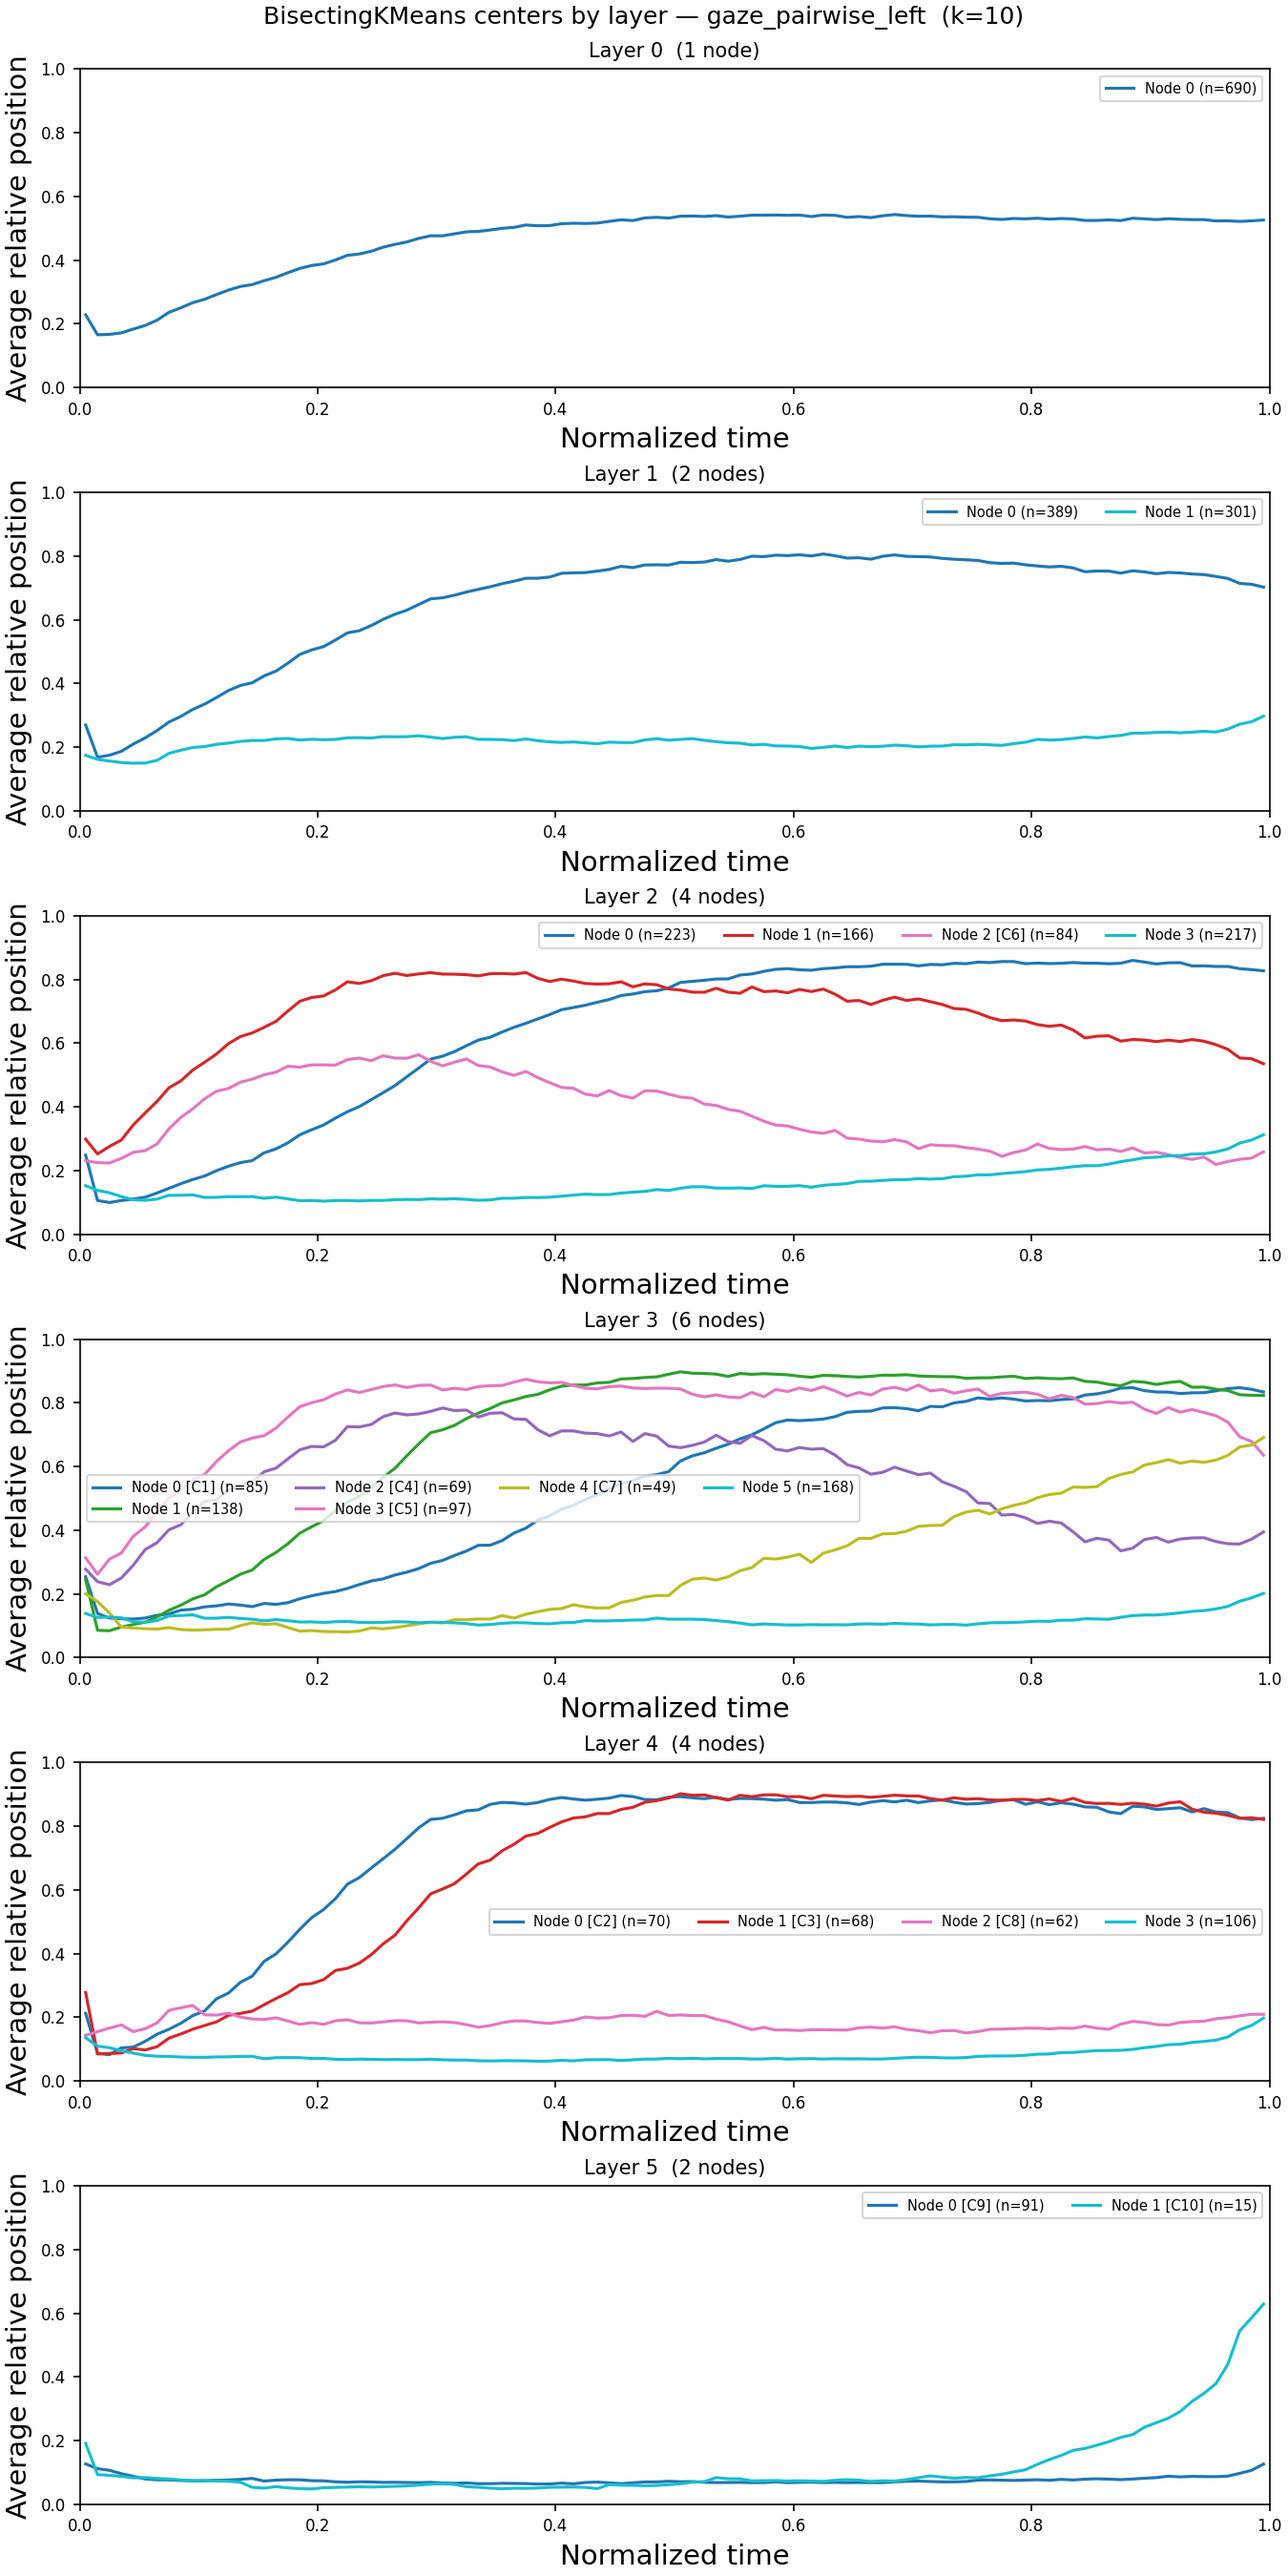
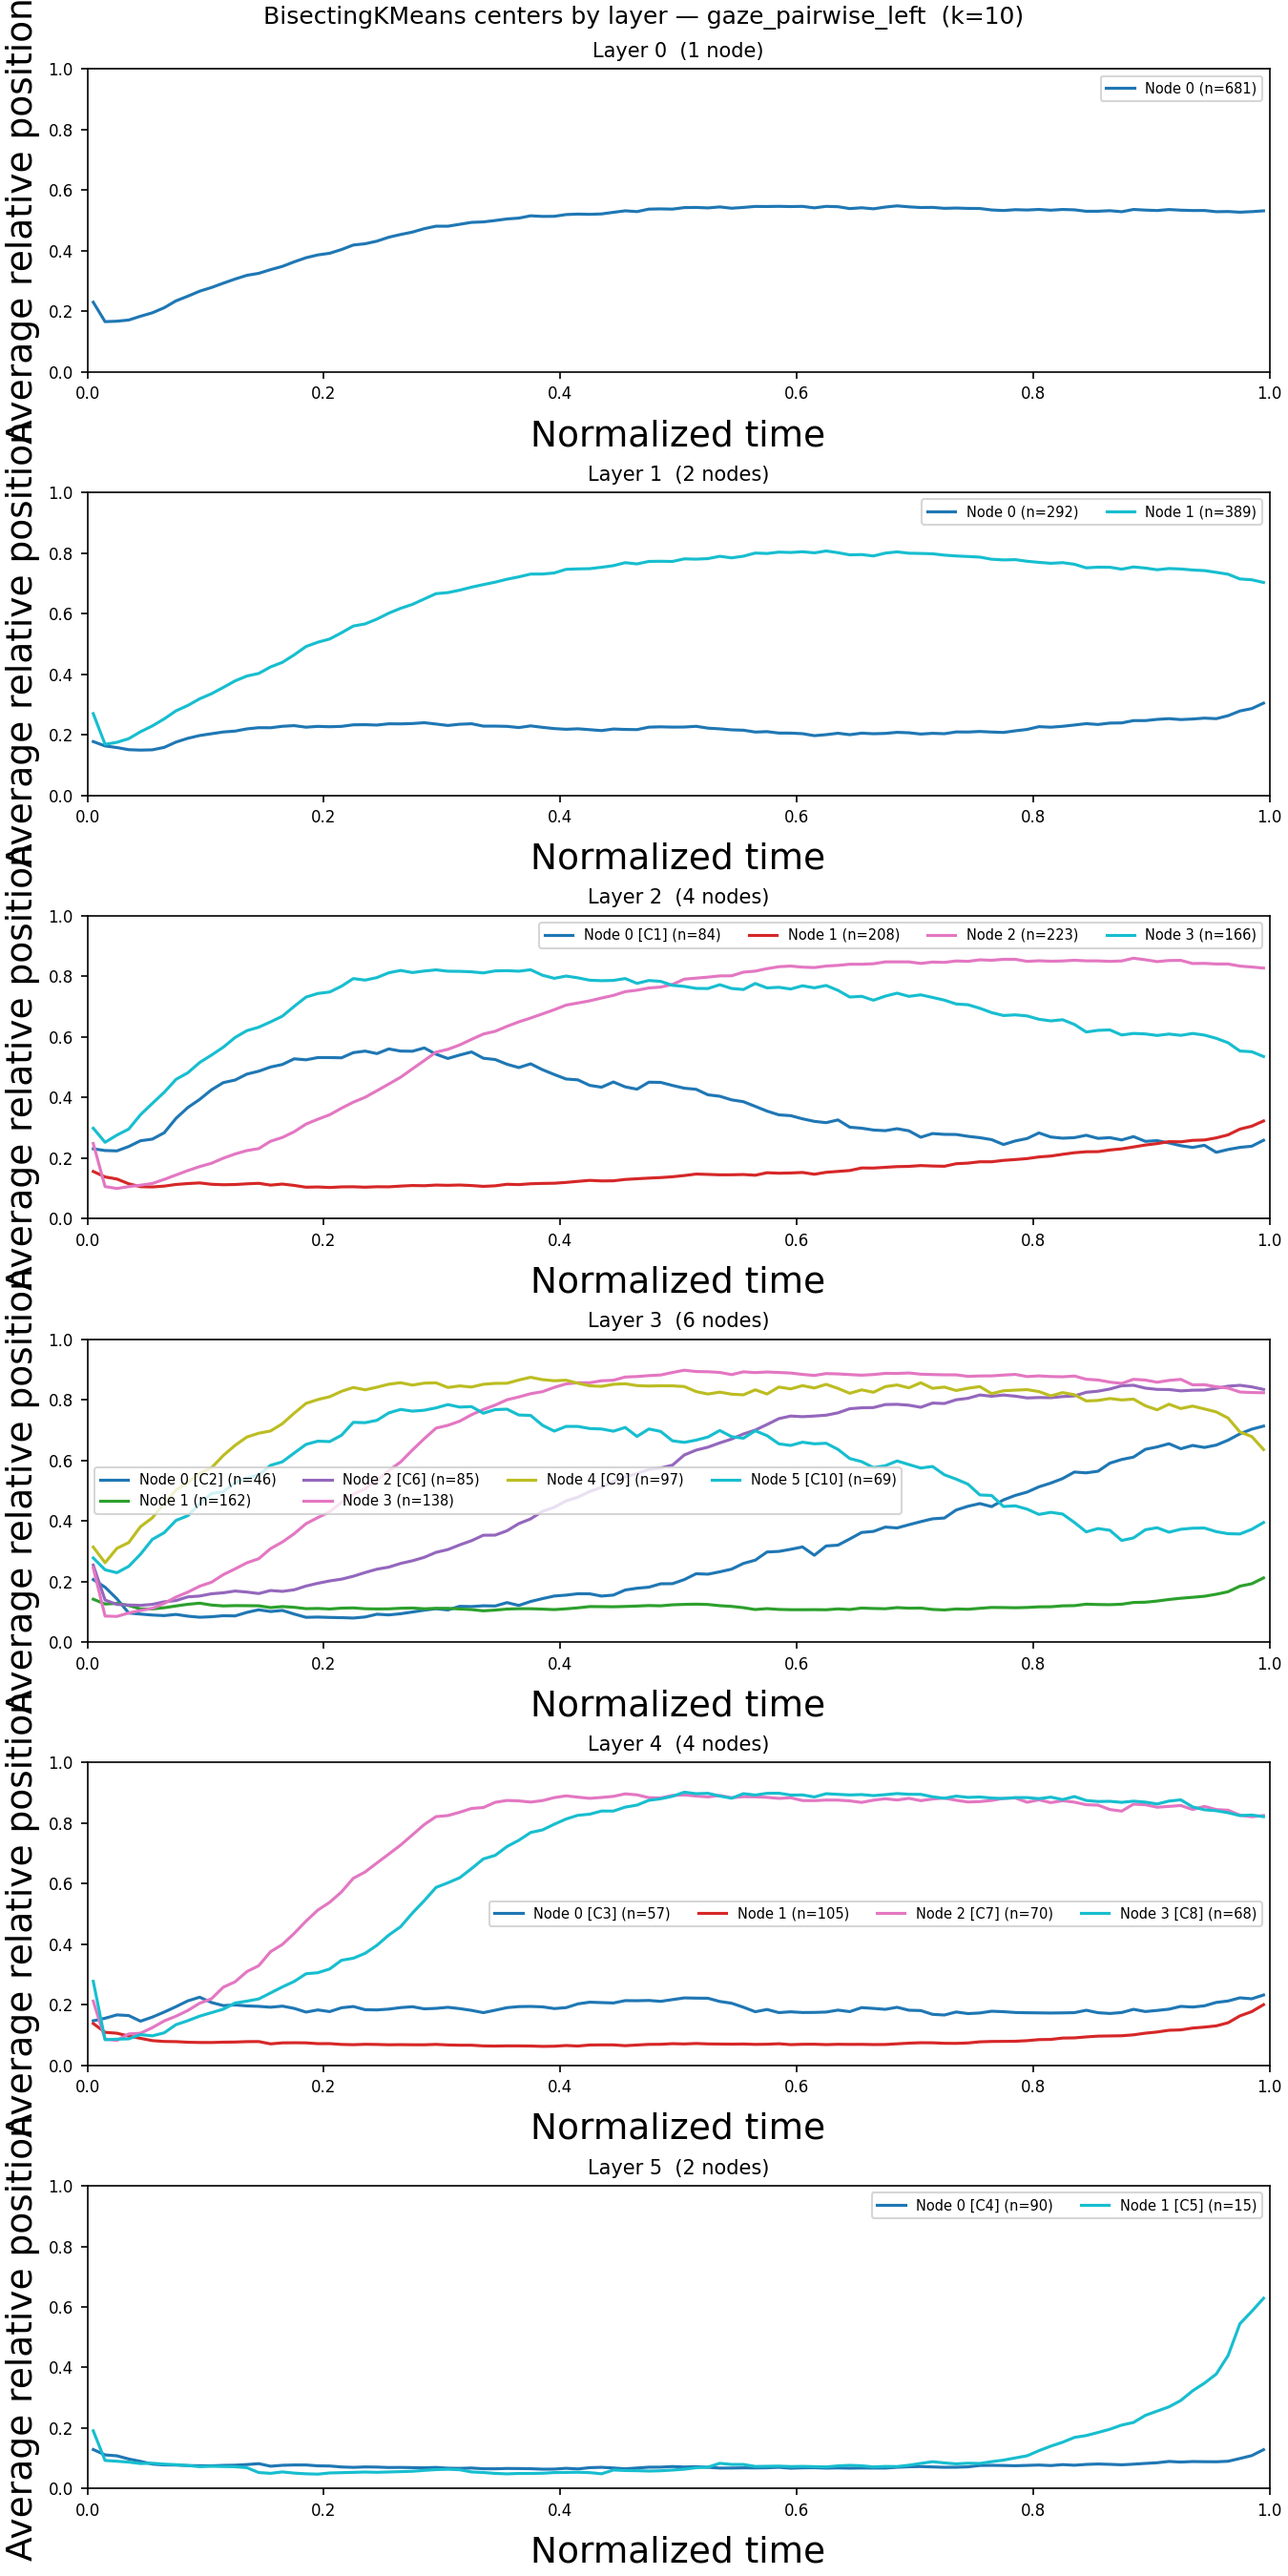
changes in plot

diff --git a/src/vis/gaze_mouse_kmeans.py b/src/vis/gaze_mouse_kmeans.py
@@ -35,7 +35,11 @@ _qc = "filtered" if EXCLUDE_BAD_WORKERS else "all"
 N_GROUPS = 2        # number of shape-similarity groups for centroid/sample plots
 MIN_CLUSTER_SAMPLES = 10  # clusters smaller than this are excluded from group plots
 # Manual overrides: cluster 1-indexed label -> group 0-indexed.  e.g. {4: 1} moves C4 to Group 2.
-CENTROID_GROUP_OVERRIDES: dict = {4: 1}
+# Fully specified: C6,C7,C8,C9 -> Group 1 (0); all others -> Group 2 (1).
+CENTROID_GROUP_OVERRIDES: dict = {
+    1: 1, 2: 1, 3: 1, 4: 1, 5: 1, 10: 1,
+    6: 0, 7: 0, 8: 0, 9: 0,
+}
 # Manual overrides for sample plot: sample 1-indexed label -> group 0-indexed.
 SAMPLE_GROUP_OVERRIDES: dict = {3: 0}
 
@@ -101,14 +105,14 @@ CLUSTER_COLORS = [_cmap(i / max(N_CLUSTERS - 1, 1)) for i in range(N_CLUSTERS)]
 
 def _ax_labels(ax):
     if DATA_TYPE == "time_interp":
-        ax.set_xlabel("Normalized time", fontsize=14)
-        ax.set_ylabel("Average relative position", fontsize=14)
+        ax.set_xlabel("Normalized time", fontsize=18, labelpad=8)
+        ax.set_ylabel("Average relative position", fontsize=18)
         ax.set_ylim(0, 1)
     else:
-        ax.set_xlabel("Relative position", fontsize=14)
-        ax.set_ylabel("Average probability", fontsize=14)
+        ax.set_xlabel("Relative position", fontsize=18, labelpad=8)
+        ax.set_ylabel("Average probability", fontsize=18)
         ax.set_ylim(bottom=0)   # auto-scale top; histogram probs are ~0–0.05
-    ax.tick_params(axis='both', labelsize=12)
+    ax.tick_params(axis='both', labelsize=16)
     ax.set_xlim(0, 1)
 
 
@@ -141,8 +145,8 @@ for g, ax in enumerate(axes1):
         ax.plot(BIN_CENTERS, centroids[idx], color=CLUSTER_COLORS[idx], lw=1.5,
                 label=f"C{idx + 1} (n={cluster_counts[idx]})")
     _ax_labels(ax)
-    ax.legend(fontsize=13)
-    ax.set_title(f"Group {g + 1}  ({len(member_idxs)} clusters)", fontsize=18)
+    ax.legend(fontsize=16)
+    ax.set_title(f"Group {g + 1}  ({len(member_idxs)} clusters)", fontsize=20)
 
 fig1.savefig(OUTPUT_PATH, dpi=150)
 shutil.copy(OUTPUT_PATH, _MAIN_PAPER_DIR)
@@ -174,8 +178,8 @@ for g, ax in enumerate(axes2):
         ax.plot(BIN_CENTERS, sample_rows[idx], color=CLUSTER_COLORS[idx], lw=1.2, alpha=0.75,
                 label=f"Sample {idx + 1} (row {row_i})")
     _ax_labels(ax)
-    ax.legend(fontsize=13)
-    ax.set_title(f"Group {g + 1}  ({len(member_idxs)} samples)", fontsize=18)
+    ax.legend(fontsize=16)
+    ax.set_title(f"Group {g + 1}  ({len(member_idxs)} samples)", fontsize=20)
 
 fig2.savefig(OUTPUT_PATH_SAMPLE, dpi=150)
 shutil.copy(OUTPUT_PATH_SAMPLE, _MAIN_PAPER_DIR)

diff --git a/src/vis/gaze_position_time_interp.py b/src/vis/gaze_position_time_interp.py
@@ -217,11 +217,11 @@ def plot_avg_curves(df, prefix, suptitle, save_path):
             continue
         avg_pos = subset[POS_COLS].mean().values
         ax.plot(INTERP_TIMES, avg_pos, label=f"{label} (n={len(subset)})", **style)
-    ax.set_xlabel("Normalized time", fontsize=14)
-    ax.set_ylabel("Average relative position", fontsize=14)
-    ax.tick_params(axis='both', labelsize=12)
+    ax.set_xlabel("Normalized time", fontsize=18, labelpad=8)
+    ax.set_ylabel("Average relative position", fontsize=18)
+    ax.tick_params(axis='both', labelsize=16)
     ax.set_xlim(0, 1)
-    ax.legend(fontsize=13)
+    ax.legend(fontsize=16)
     plt.tight_layout()
     plt.savefig(save_path, dpi=150)
     plt.show()
@@ -236,11 +236,11 @@ def plot_length_category_curves(df, suptitle, save_path):
             continue
         avg_pos = subset[POS_COLS].mean().values
         ax.plot(INTERP_TIMES, avg_pos, label=f"{cat} (n={len(subset)})", **style)
-    ax.set_xlabel("Normalized time", fontsize=14)
-    ax.set_ylabel("Average relative position", fontsize=14)
-    ax.tick_params(axis='both', labelsize=12)
+    ax.set_xlabel("Normalized time", fontsize=18, labelpad=8)
+    ax.set_ylabel("Average relative position", fontsize=18)
+    ax.tick_params(axis='both', labelsize=16)
     ax.set_xlim(0, 1)
-    ax.legend(fontsize=13)
+    ax.legend(fontsize=16)
     plt.tight_layout()
     plt.savefig(save_path, dpi=150)
     plt.show()

diff --git a/src/vis/gaze_mouse_correlation.py b/src/vis/gaze_mouse_correlation.py
@@ -203,11 +203,11 @@ for cat, style in LEN_STYLES.items():
     vals = results_df[results_df["length_category"] == cat]["pearson_r"].values
     _kde_curve(ax, vals, cat, **style)
 ax.axvline(0, color="gray", lw=0.8, ls="--")
-ax.set_xlabel("Pearson r", fontsize=14)
-ax.set_ylabel("Density", fontsize=14)
-ax.tick_params(axis='both', labelsize=12)
+ax.set_xlabel("Pearson r", fontsize=18, labelpad=8)
+ax.set_ylabel("Density", fontsize=18)
+ax.tick_params(axis='both', labelsize=16)
 ax.set_xlim(-1, 1)
-ax.legend(fontsize=13)
+ax.legend(fontsize=16)
 fig.tight_layout()
 fig.savefig(PLOT_BY_LENGTH, dpi=150)
 plt.close(fig)
